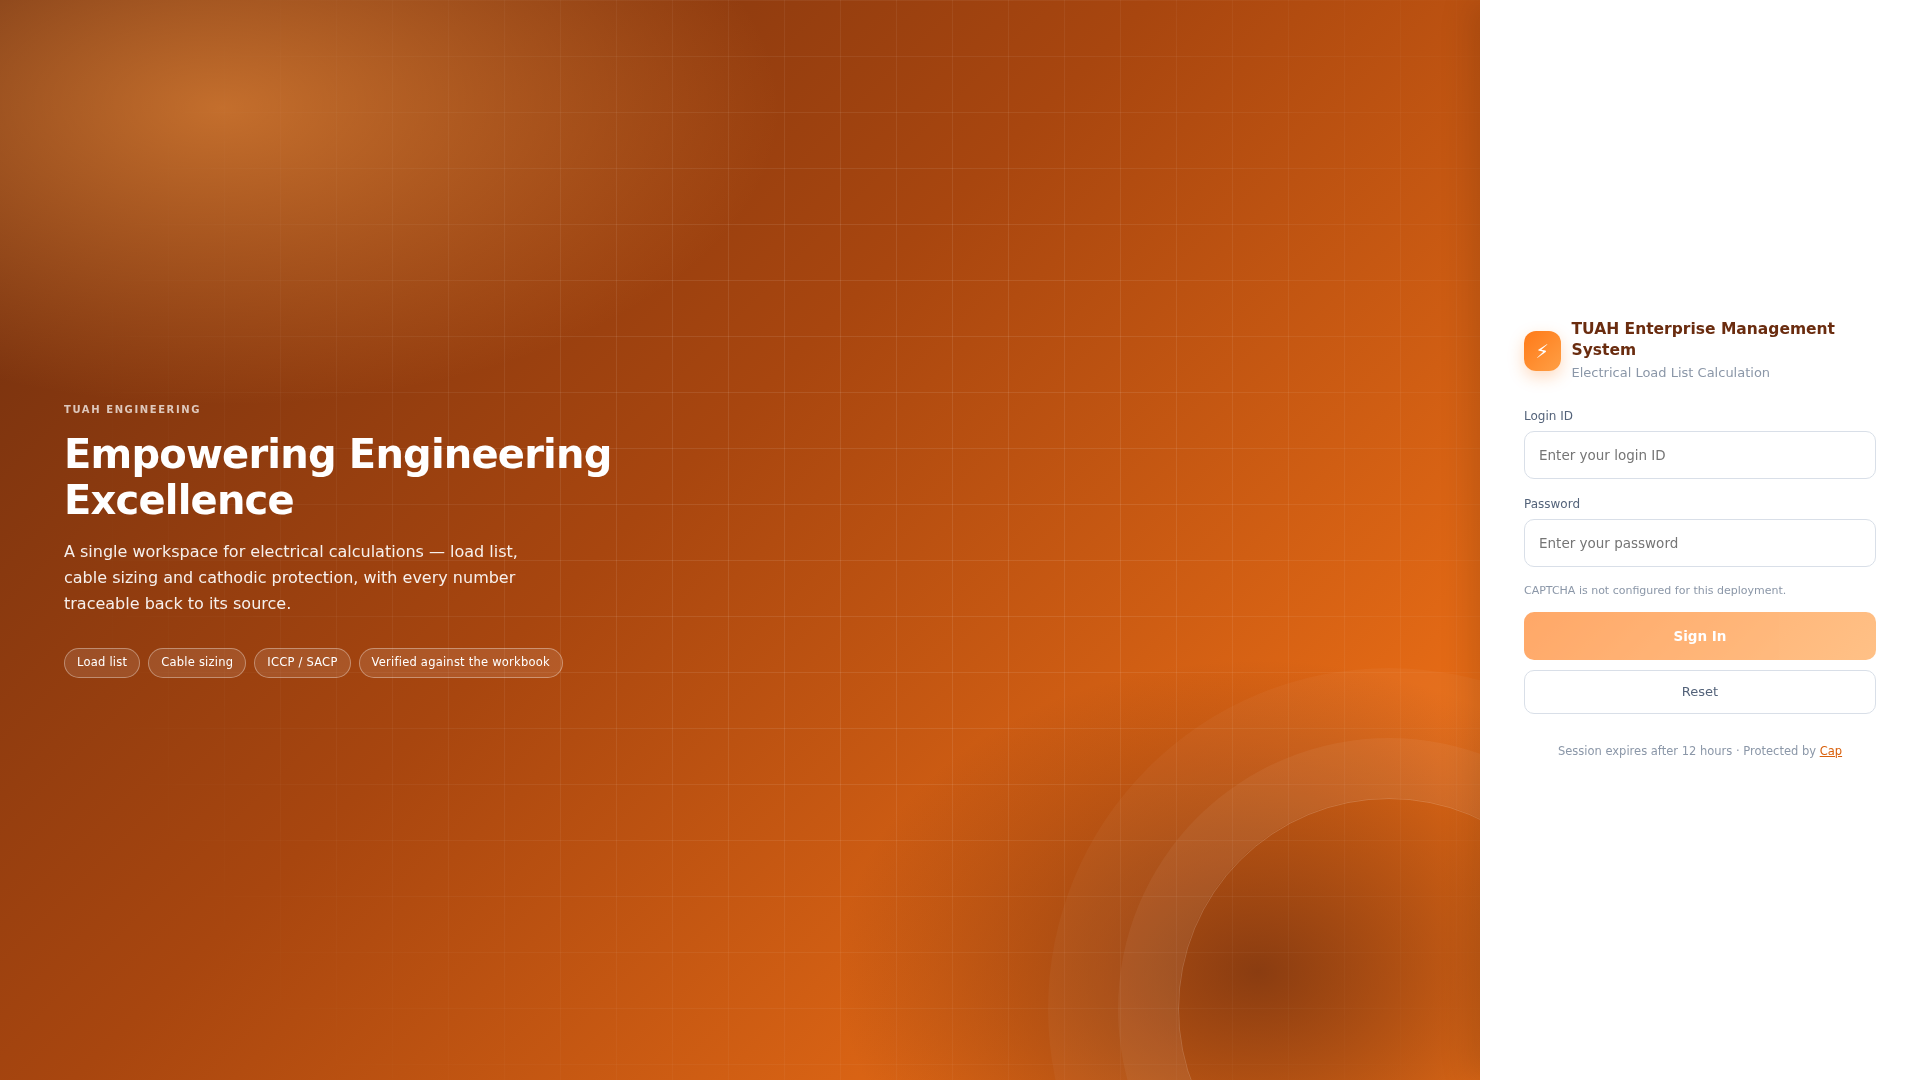
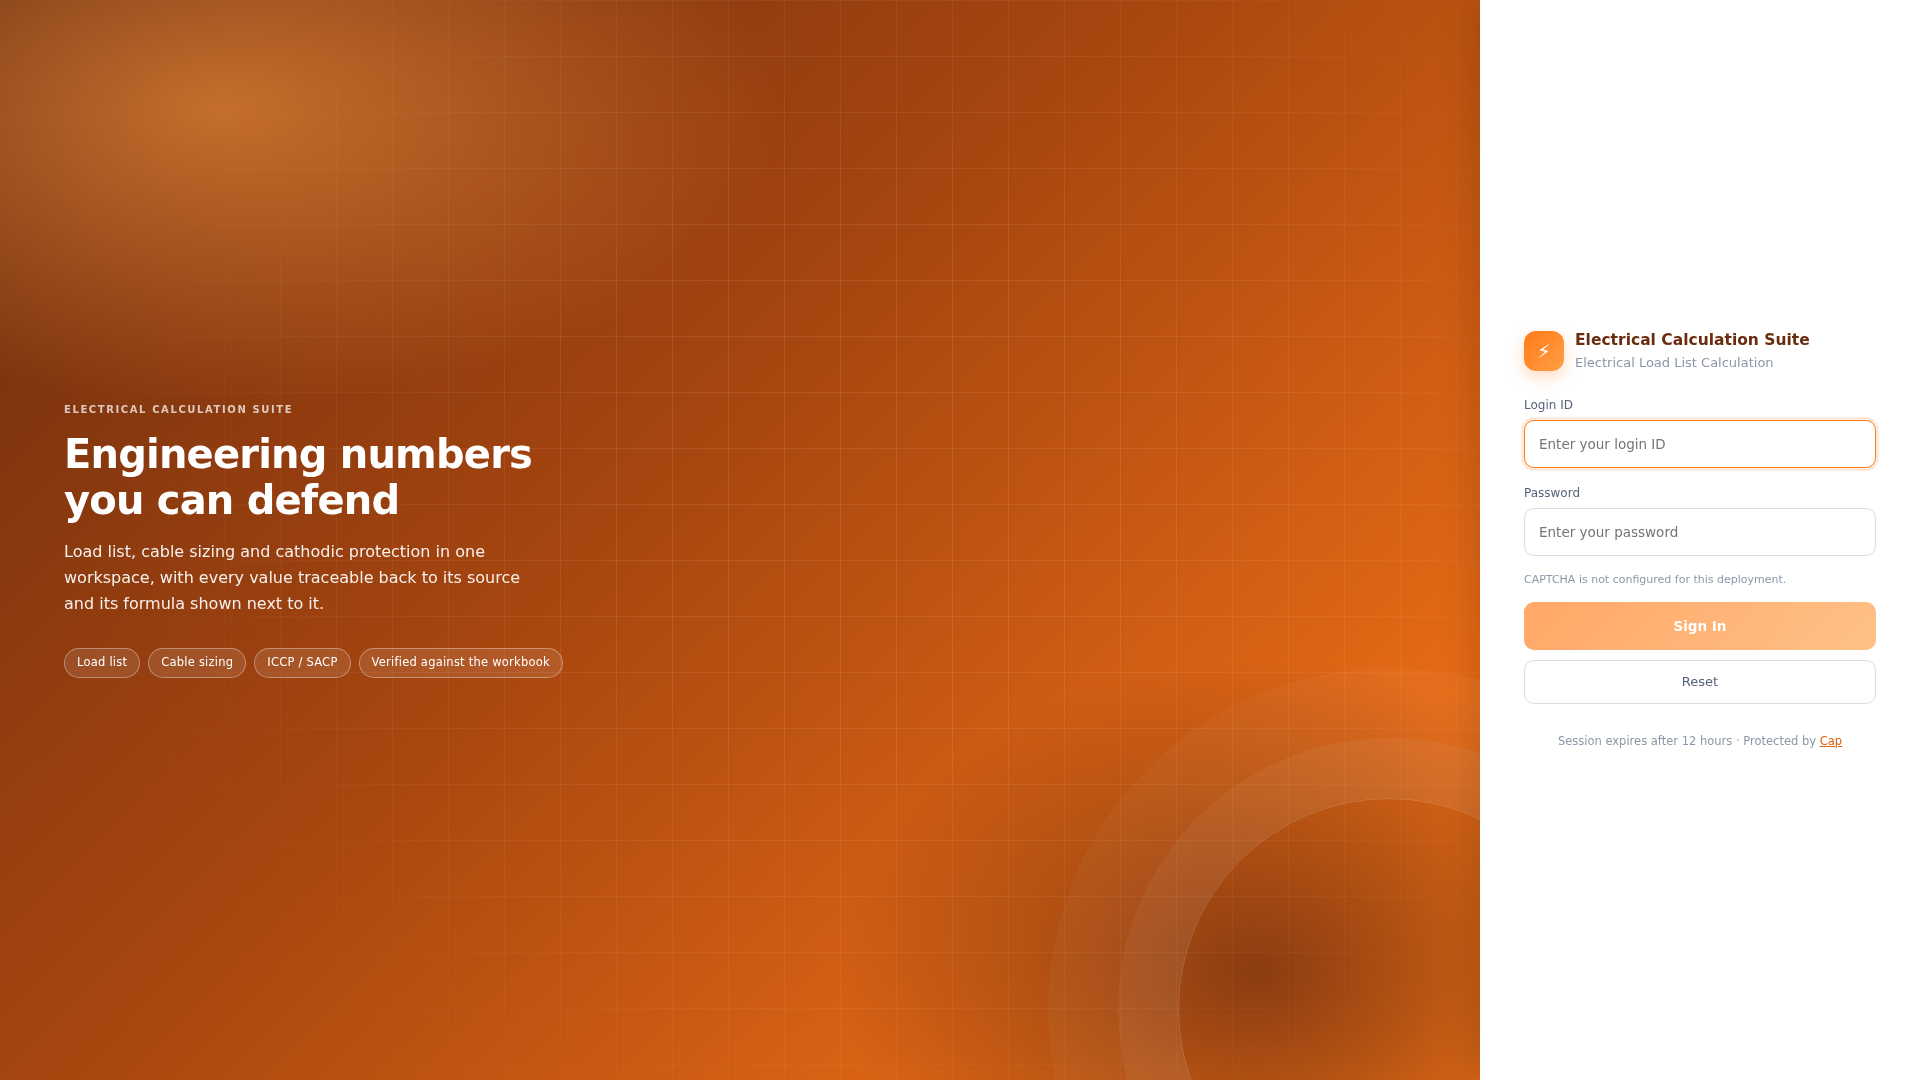
refactor: drop the third-party branding and harden response headers
The interface keeps the light copper/orange design language but is now
branded as "Electrical Calculation Suite"; no customer or platform names
remain in the login screen or the docs.

Security:
- security headers on every response: nosniff, X-Frame-Options DENY,
  Referrer-Policy no-referrer, Permissions-Policy
- Cache-Control: no-store on the API so authenticated payloads are never
  cached by a proxy or the browser
- Cap CAPTCHA remains the login gate (server-side siteverify), with the
  widget bundled and skipped only when no Cap site is configured

Changed region(s): [[0.7812, 0.275, 0.9688, 0.6417], [0.0312, 0.3667, 0.3125, 0.5806], [0.8125, 0.6722, 0.9688, 0.7028]]

diff --git a/frontend/src/views/LoginView.vue b/frontend/src/views/LoginView.vue
@@ -63,11 +63,11 @@ function reset() {
   <div class="login-wrapper">
     <section class="branding-panel">
       <div class="branding-content">
-        <div class="eyebrow">TUAH Engineering</div>
-        <h1>Empowering Engineering Excellence</h1>
+        <div class="eyebrow">Electrical Calculation Suite</div>
+        <h1>Engineering numbers you can defend</h1>
         <p>
-          A single workspace for electrical calculations — load list, cable sizing and cathodic
-          protection, with every number traceable back to its source.
+          Load list, cable sizing and cathodic protection in one workspace, with every value
+          traceable back to its source and its formula shown next to it.
         </p>
         <div class="branding-points">
           <span>Load list</span>
@@ -82,7 +82,7 @@ function reset() {
       <div class="login-brand">
         <div class="brand-mark">⚡</div>
         <div>
-          <div class="login-title">TUAH Enterprise Management System</div>
+          <div class="login-title">Electrical Calculation Suite</div>
           <div class="login-subtitle">Electrical Load List Calculation</div>
         </div>
       </div>

diff --git a/backend/src/api.rs b/backend/src/api.rs
@@ -3,7 +3,7 @@ use std::net::SocketAddr;
 use std::sync::Arc;
 
 use axum::extract::{ConnectInfo, Path, Request, State};
-use axum::http::{header, HeaderMap, StatusCode};
+use axum::http::{header, HeaderMap, HeaderValue, StatusCode};
 use axum::middleware::{self, Next};
 use axum::response::{IntoResponse, Response};
 use axum::routing::{get, post, put};
@@ -78,6 +78,32 @@ pub fn router(state: Shared) -> Router {
         .route_layer(middleware::from_fn_with_state(state.clone(), require_auth));
 
     public.merge(protected).with_state(state)
+}
+
+/// Baseline hardening applied to every response: no MIME sniffing, no framing
+/// (clickjacking protection for the sign-in form), no referrer leakage, and
+/// `no-store` on the API so authenticated payloads are never cached.
+pub async fn security_headers(request: Request, next: Next) -> Response {
+    let is_api = request.uri().path().starts_with("/api/");
+    let mut response = next.run(request).await;
+    let headers = response.headers_mut();
+    headers.insert(
+        header::X_CONTENT_TYPE_OPTIONS,
+        HeaderValue::from_static("nosniff"),
+    );
+    headers.insert(header::X_FRAME_OPTIONS, HeaderValue::from_static("DENY"));
+    headers.insert(
+        header::REFERRER_POLICY,
+        HeaderValue::from_static("no-referrer"),
+    );
+    headers.insert(
+        header::HeaderName::from_static("permissions-policy"),
+        HeaderValue::from_static("camera=(), microphone=(), geolocation=()"),
+    );
+    if is_api {
+        headers.insert(header::CACHE_CONTROL, HeaderValue::from_static("no-store"));
+    }
+    response
 }
 
 fn session_user(state: &AppState, headers: &HeaderMap) -> Option<String> {

diff --git a/backend/tests/auth_http.rs b/backend/tests/auth_http.rs
@@ -33,7 +33,7 @@ async fn app() -> Router {
         store: RwLock::new(store),
         auth,
     });
-    api::router(state)
+    api::router(state).layer(axum::middleware::from_fn(api::security_headers))
 }
 
 fn request(method: &str, uri: &str) -> axum::http::request::Builder {
@@ -73,6 +73,20 @@ async fn health_is_public_and_state_is_not() {
         .await
         .unwrap();
     assert_eq!(export.status(), StatusCode::UNAUTHORIZED);
+}
+
+#[tokio::test]
+async fn responses_carry_security_headers() {
+    let app = app().await;
+    let response = app
+        .oneshot(request("GET", "/api/health").body(Body::empty()).unwrap())
+        .await
+        .unwrap();
+    assert_eq!(response.status(), StatusCode::OK);
+    assert_eq!(response.headers()["x-content-type-options"], "nosniff");
+    assert_eq!(response.headers()["x-frame-options"], "DENY");
+    assert_eq!(response.headers()["referrer-policy"], "no-referrer");
+    assert_eq!(response.headers()["cache-control"], "no-store");
 }
 
 #[tokio::test]

diff --git a/backend/src/main.rs b/backend/src/main.rs
@@ -136,6 +136,7 @@ async fn main() -> Result<()> {
 
     let app = api::router(state)
         .fallback_service(spa)
+        .layer(axum::middleware::from_fn(api::security_headers))
         .layer(CompressionLayer::new())
         .layer(TraceLayer::new_for_http());
 

diff --git a/AGENTS.md b/AGENTS.md
@@ -105,7 +105,8 @@ Releases are automated with semantic-release (`.releaserc.json`,
 
 ## UI theme
 
-The interface follows the TUAH/TeMS design language: Inter, white surfaces on `#f4f6f9`, copper
-headings (`--copper`), orange gradient primary (`--brand` → `--brand-2`), 10 px radii, 48 px login
-controls, split-screen login with a copper/orange branding panel. Keep new components on those
-tokens (`frontend/src/styles.css`) rather than adding a UI framework.
+The interface uses a light copper/orange engineering design language: Inter, white surfaces on
+`#f4f6f9`, copper headings (`--copper`), orange gradient primary (`--brand` → `--brand-2`), 10 px
+radii, 48 px login controls, split-screen login with a copper/orange branding panel. Keep new
+components on those tokens (`frontend/src/styles.css`) rather than adding a UI framework. The app is
+branded as "Electrical Calculation Suite" — do not add third-party or customer branding to it.
